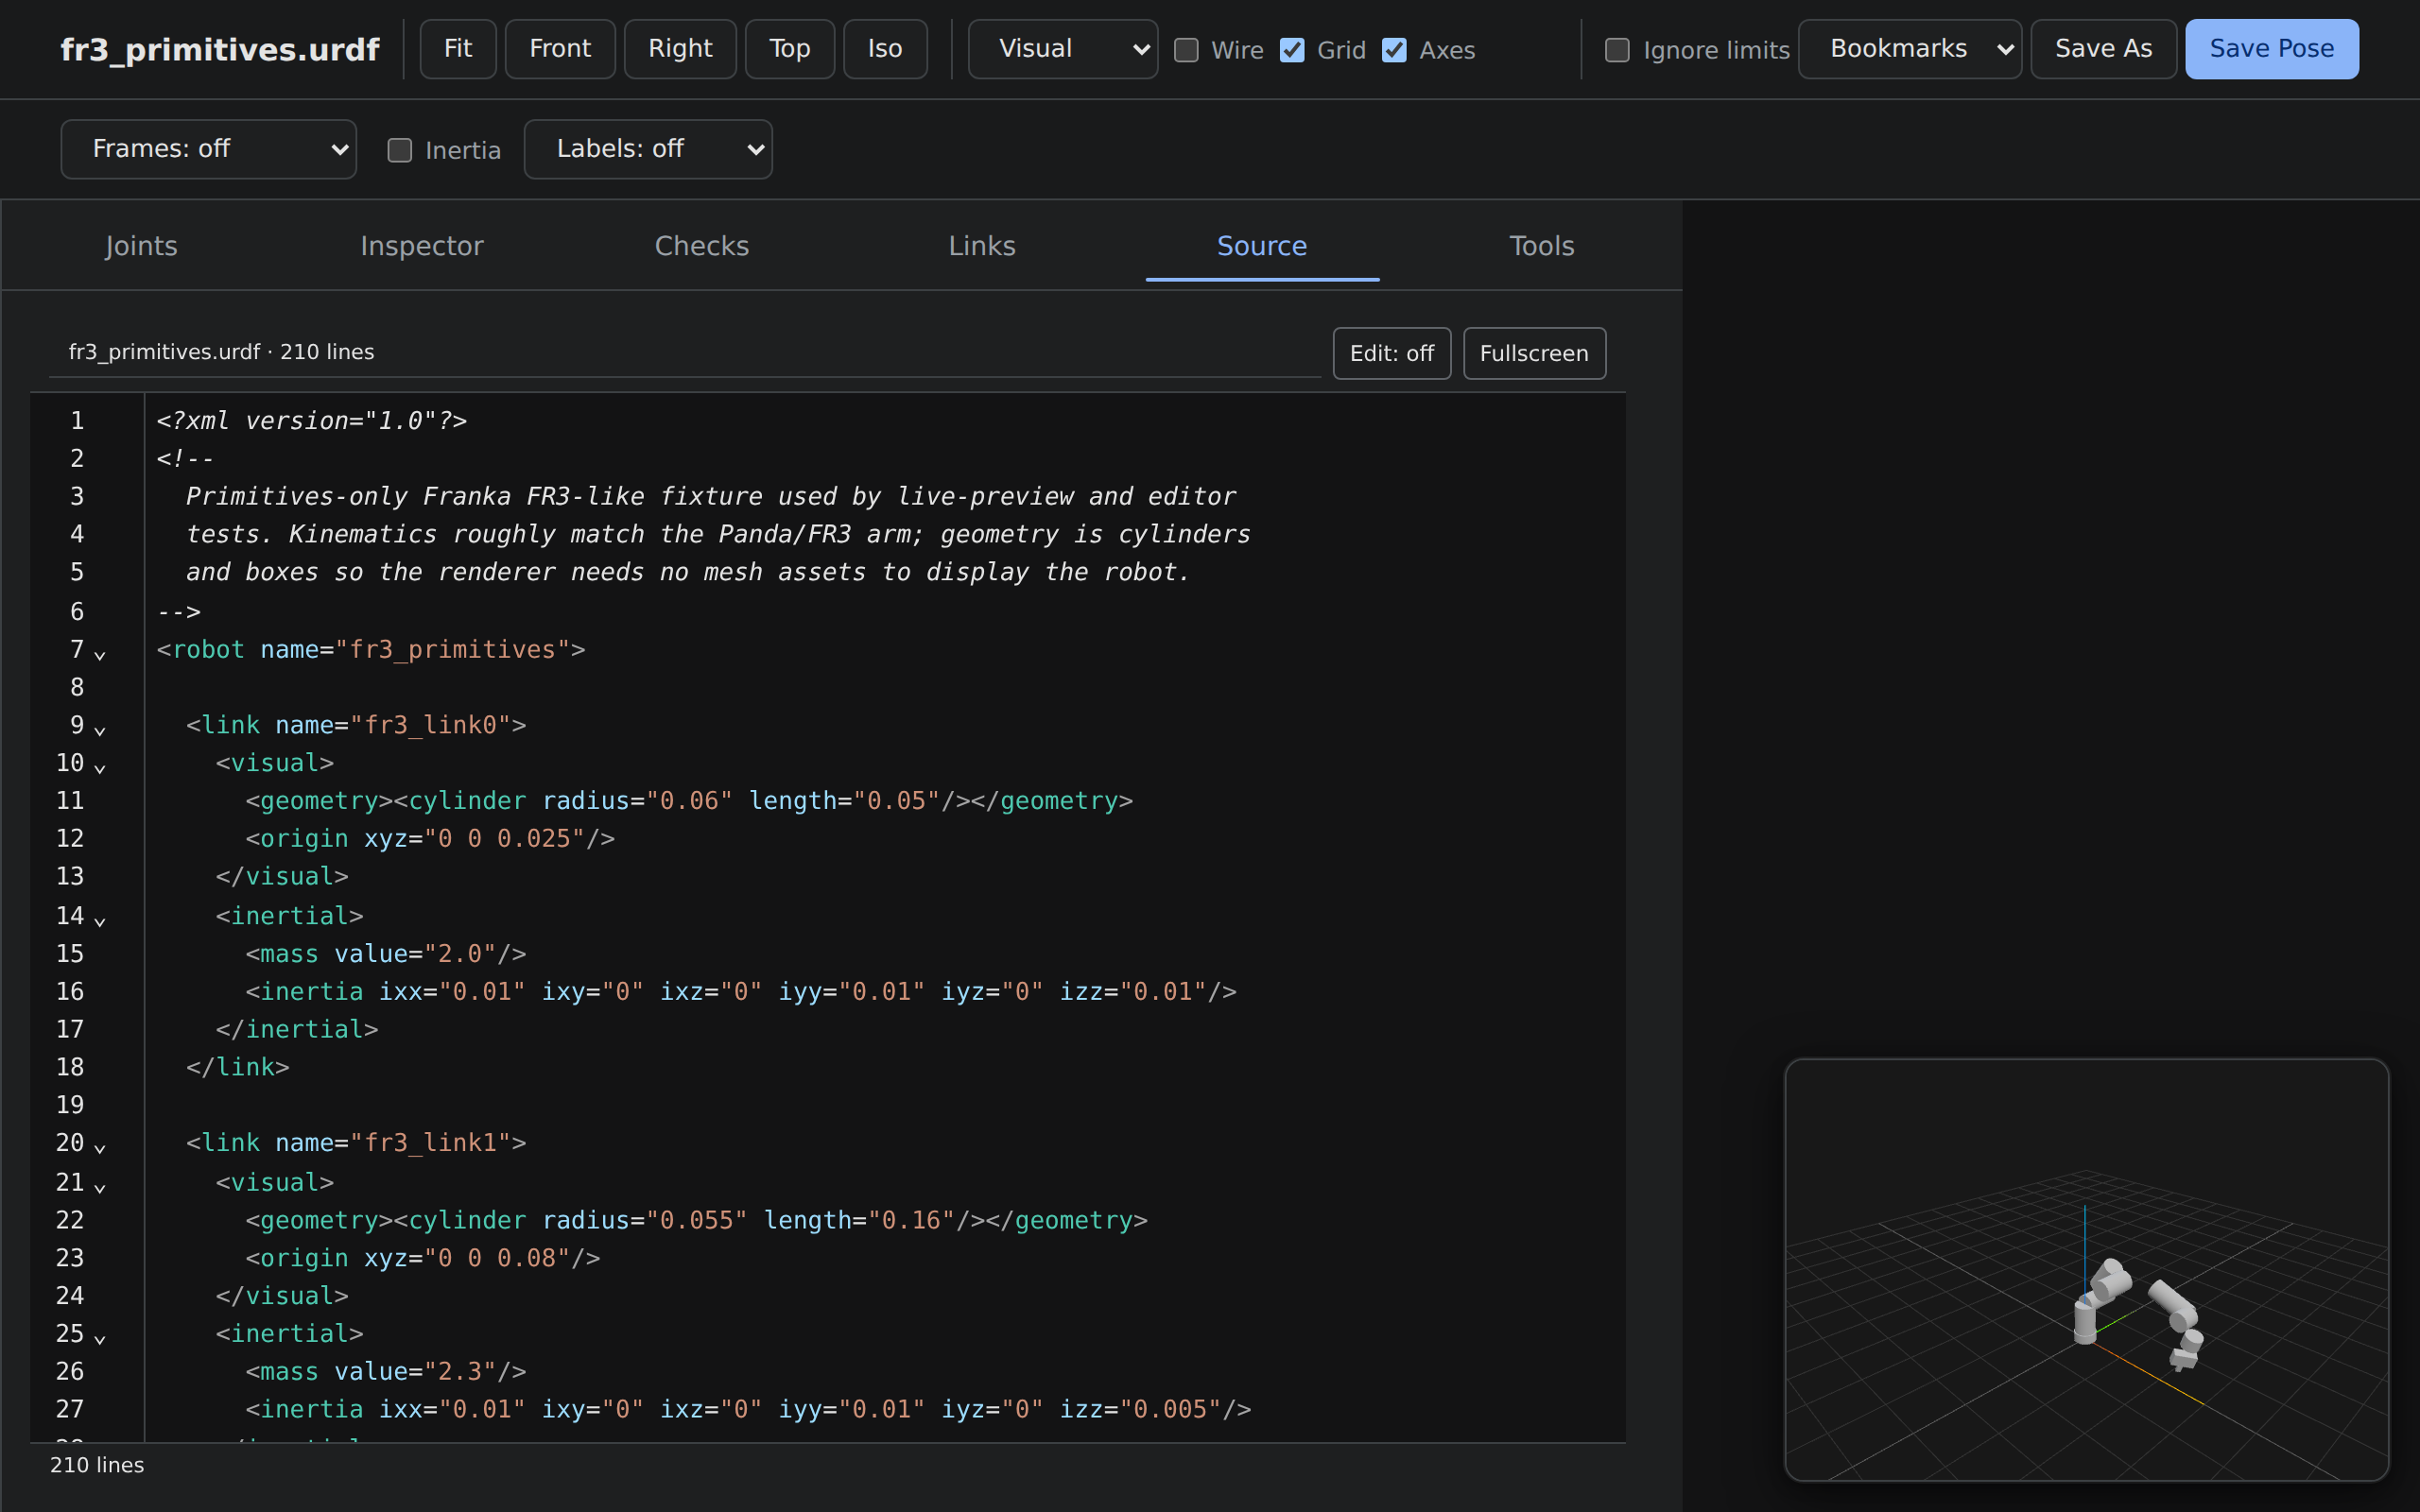
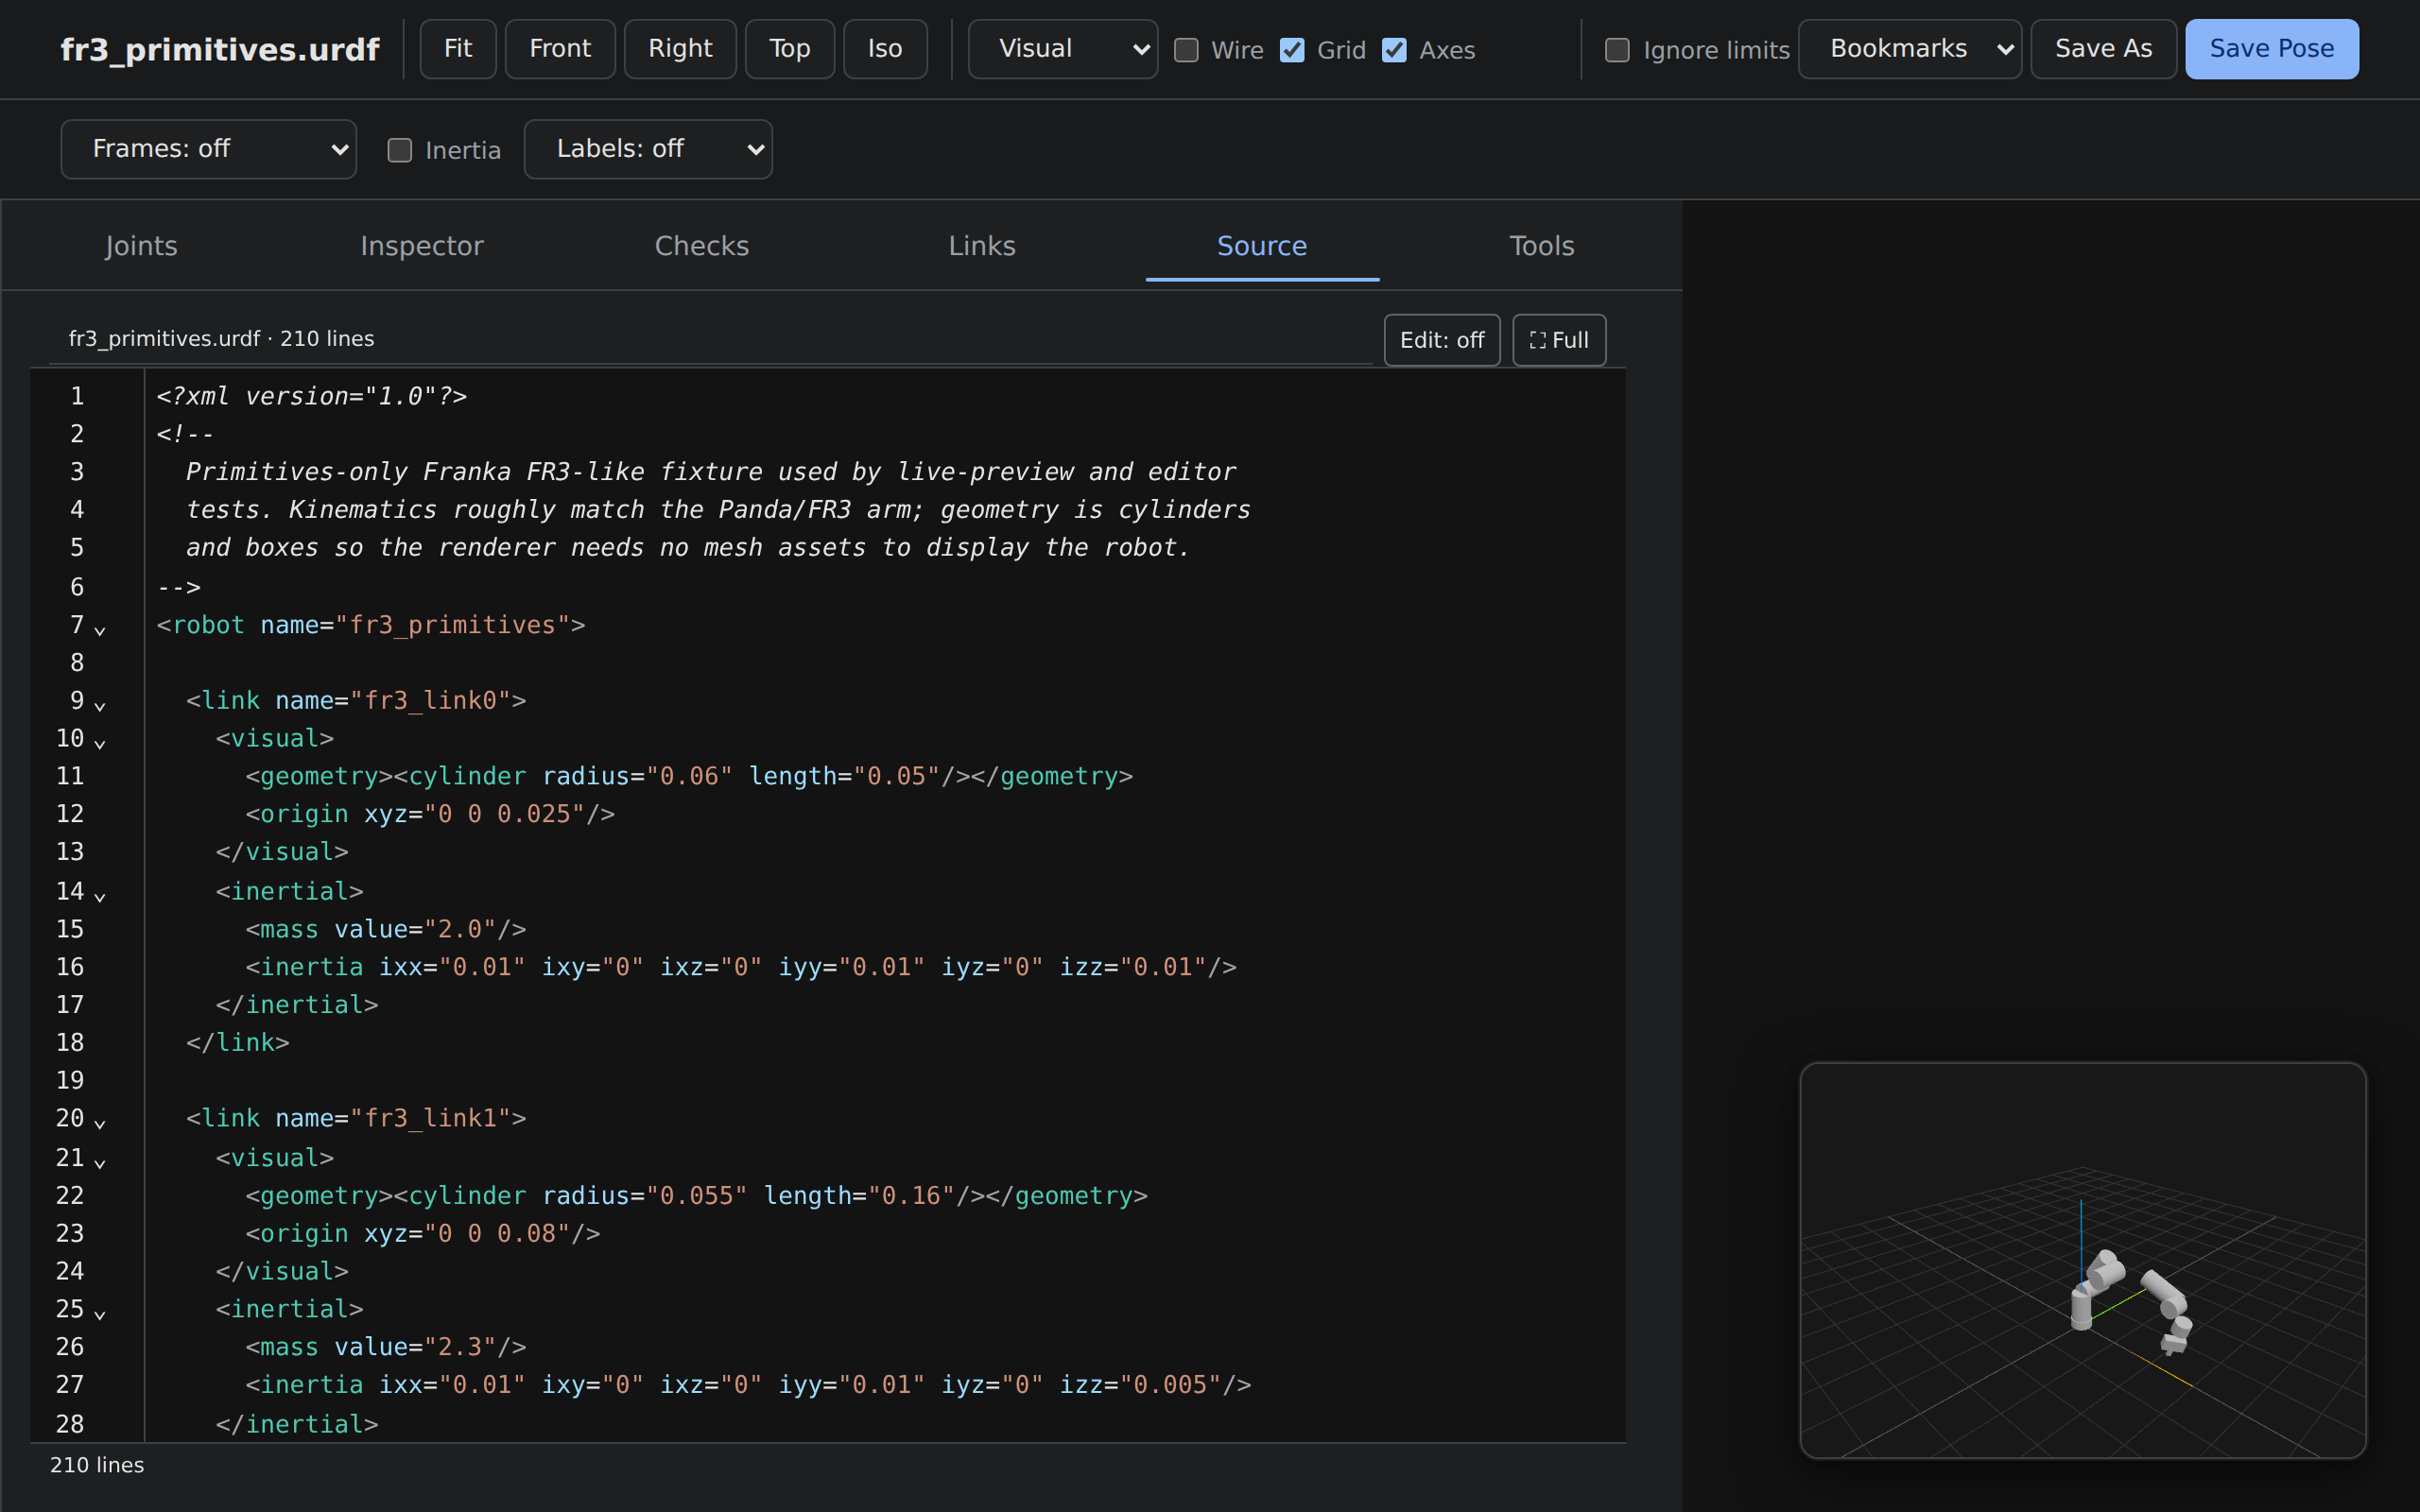
ui: stop "Edit: off" wrapping, push PIP inward, consolidate redundant tests
UI fixes called out from screenshot review:

- Toolbar buttons gained white-space: nowrap + flex: 0 0 auto, so
  "Edit: off" can no longer break to "Edit:" + "off" when the side
  narrows. Toolbar also has min-height: 28px + flex-wrap: nowrap to
  keep the row stable.
- Fullscreen PIP moved from right:16/bottom:16 to right:28/bottom:28
  and downsized from 320x224 to 300x210 — it now sits cleanly inside
  the workspace gutter instead of hugging the screen edge while the
  editor content kept its own padding.
- Fullscreen button label shortened from "Fullscreen" (would have
  wrapped at narrow widths anyway) to "⛶ Full" with full tooltip.

Test consolidation (322 → 318 unit, 51 → 50 e2e):

- layoutFullscreen.test.ts: collapsed three separate "F11 / Ctrl+Shift+F /
  custom event toggles" tests into one parametric loop; merged the two
  trivial set("X") class-assertion tests into the onChange test (which
  already proves both transitions).
- frankaDescription.test.ts: merged the two trivial "fixture file
  present" tests into one.
- lintRules.test.ts: consolidated two near-identical perf tests into a
  parametric loop; merged "no errors" + "no rule fires" on
  franka_primitives into one composite assertion.
- editor.spec.ts: merged the "fullscreen button" and "Ctrl+Shift+F"
  tests — they exercised the same controller via different inputs.

All 318 unit + 50 Playwright tests still pass.

Changed region(s): [[0.0312, 0.2188, 0.6562, 0.9688], [0.8438, 0.7812, 0.9062, 0.9062]]

diff --git a/test/unit/layoutFullscreen.test.ts b/test/unit/layoutFullscreen.test.ts
@@ -29,41 +29,25 @@ test('createLayoutController starts in default mode', () => {
   }
 });
 
-test('set("source-fullscreen") adds the right CSS class', () => {
-  const controller = createLayoutController(getWorkspace());
+test('set() applies the matching CSS class, removes the previous one, and fires onChange only on actual transitions', () => {
+  const workspace = getWorkspace();
+  workspace.classList.remove('layout-source-fullscreen', 'layout-split');
+  const events: string[] = [];
+  const controller = createLayoutController(workspace, mode => events.push(mode));
   try {
     controller.set('source-fullscreen');
     assert.equal(controller.current(), 'source-fullscreen');
-    assert.equal(getWorkspace().classList.contains('layout-source-fullscreen'), true);
-  } finally {
-    controller.dispose();
-  }
-});
+    assert.equal(workspace.classList.contains('layout-source-fullscreen'), true);
 
-test('set("split") adds layout-split class and removes any other layout', () => {
-  const workspace = getWorkspace();
-  workspace.classList.remove('layout-source-fullscreen', 'layout-split');
-  const controller = createLayoutController(workspace);
-  try {
-    controller.set('source-fullscreen');
     controller.set('split');
-    assert.equal(controller.current(), 'split');
     assert.equal(workspace.classList.contains('layout-split'), true);
     assert.equal(workspace.classList.contains('layout-source-fullscreen'), false);
-  } finally {
-    controller.dispose();
-  }
-});
 
-test('onChange fires once per actual change', () => {
-  const events: string[] = [];
-  const controller = createLayoutController(getWorkspace(), mode => events.push(mode));
-  try {
-    controller.set('split');
-    controller.set('split');           // no-op
-    controller.set('source-fullscreen');
+    controller.set('split');           // no-op (no transition)
     controller.set('default');
-    assert.deepEqual(events, ['split', 'source-fullscreen', 'default']);
+    assert.equal(workspace.classList.contains('layout-split'), false);
+
+    assert.deepEqual(events, ['source-fullscreen', 'split', 'default']);
   } finally {
     controller.dispose();
   }
@@ -82,46 +66,38 @@ test('cycle() walks default → split → source-fullscreen → default', () => 
   }
 });
 
-test('F11 key toggles source-fullscreen ↔ default', () => {
-  const workspace = getWorkspace();
-  workspace.classList.remove('layout-source-fullscreen', 'layout-split');
-  const controller = createLayoutController(workspace);
-  try {
-    const event = new dom.window.KeyboardEvent('keydown', { key: 'F11' });
-    dom.window.dispatchEvent(event);
-    assert.equal(controller.current(), 'source-fullscreen');
-    dom.window.dispatchEvent(new dom.window.KeyboardEvent('keydown', { key: 'F11' }));
-    assert.equal(controller.current(), 'default');
-  } finally {
-    controller.dispose();
+// Three independent inputs trigger the same toggle behaviour; consolidate
+// into a parametric loop instead of three near-identical tests.
+const TOGGLE_INPUTS: Array<{ name: string; fire: (workspace: HTMLElement) => void }> = [
+  {
+    name: 'F11 keydown',
+    fire: () => dom.window.dispatchEvent(new dom.window.KeyboardEvent('keydown', { key: 'F11' }))
+  },
+  {
+    name: 'Ctrl+Shift+F keydown',
+    fire: () => dom.window.dispatchEvent(new dom.window.KeyboardEvent('keydown', { key: 'F', ctrlKey: true, shiftKey: true }))
+  },
+  {
+    name: 'custom urdf-studio:request-fullscreen-toggle event',
+    fire: workspace => workspace.dispatchEvent(new dom.window.CustomEvent('urdf-studio:request-fullscreen-toggle', { bubbles: true }))
   }
-});
+];
 
-test('Ctrl+Shift+F toggles source-fullscreen', () => {
-  const workspace = getWorkspace();
-  workspace.classList.remove('layout-source-fullscreen', 'layout-split');
-  const controller = createLayoutController(workspace);
-  try {
-    dom.window.dispatchEvent(new dom.window.KeyboardEvent('keydown', { key: 'F', ctrlKey: true, shiftKey: true }));
-    assert.equal(controller.current(), 'source-fullscreen');
-  } finally {
-    controller.dispose();
-  }
-});
-
-test('custom event urdf-studio:request-fullscreen-toggle toggles layout', () => {
-  const workspace = getWorkspace();
-  workspace.classList.remove('layout-source-fullscreen', 'layout-split');
-  const controller = createLayoutController(workspace);
-  try {
-    workspace.dispatchEvent(new dom.window.CustomEvent('urdf-studio:request-fullscreen-toggle', { bubbles: true }));
-    assert.equal(controller.current(), 'source-fullscreen');
-    workspace.dispatchEvent(new dom.window.CustomEvent('urdf-studio:request-fullscreen-toggle', { bubbles: true }));
-    assert.equal(controller.current(), 'default');
-  } finally {
-    controller.dispose();
-  }
-});
+for (const { name, fire } of TOGGLE_INPUTS) {
+  test(`${name} toggles source-fullscreen ↔ default`, () => {
+    const workspace = getWorkspace();
+    workspace.classList.remove('layout-source-fullscreen', 'layout-split');
+    const controller = createLayoutController(workspace);
+    try {
+      fire(workspace);
+      assert.equal(controller.current(), 'source-fullscreen');
+      fire(workspace);
+      assert.equal(controller.current(), 'default');
+    } finally {
+      controller.dispose();
+    }
+  });
+}
 
 test('dispose removes keyboard listener so further F11 events have no effect', () => {
   const workspace = getWorkspace();

diff --git a/test/unit/lintRules.test.ts b/test/unit/lintRules.test.ts
@@ -32,24 +32,17 @@ function lint(urdf: string, sourcePath = 'test.urdf', enabled?: Set<string>) {
 // franka_primitives.urdf — the "healthy" fixture
 // =====================================================================
 
-test('franka_primitives has no errors and a high health score', () => {
-  const urdf = load('franka_primitives.urdf');
-  const report = lint(urdf);
-  // Mesh / package rules can't fire because the fixture uses primitives.
+test('franka_primitives is clean: zero errors, high health score, and no structural/physics rule fires', () => {
+  const report = lint(load('franka_primitives.urdf'));
   const errors = report.diagnostics.filter(d => d.severity === 'error');
   assert.equal(errors.length, 0, `unexpected errors: ${JSON.stringify(errors, null, 2)}`);
   assert.ok(report.healthScore >= 95, `health score too low: ${report.healthScore}`);
-});
-
-test('franka_primitives passes every default-enabled rule', () => {
-  const urdf = load('franka_primitives.urdf');
-  const report = lint(urdf);
-  const triggeredCodes = Object.keys(report.byRule);
-  // The fixture intentionally avoids triggering structural / physics rules.
-  // Style rules (S-005 in particular) are off by default and won't fire.
-  const forbiddenForFranka = ['R-001', 'R-002', 'R-003', 'R-004', 'R-005', 'P-001', 'P-002', 'P-003', 'P-004', 'P-005', 'P-006'];
-  for (const code of forbiddenForFranka) {
-    assert.ok(!triggeredCodes.includes(code), `${code} unexpectedly fired on franka_primitives: ${JSON.stringify(report.byRule[code])}`);
+  const triggered = Object.keys(report.byRule);
+  // The fixture intentionally avoids triggering structural / physics
+  // rules; only A-* mesh/package rules can fire on a mesh-free fixture
+  // (and they don't, because there are no meshes).
+  for (const code of ['R-001', 'R-002', 'R-003', 'R-004', 'R-005', 'P-001', 'P-002', 'P-003', 'P-004', 'P-005', 'P-006']) {
+    assert.ok(!triggered.includes(code), `${code} unexpectedly fired: ${JSON.stringify(report.byRule[code])}`);
   }
 });
 
@@ -262,24 +255,20 @@ test('explicit enabled set restricts rules', () => {
 });
 
 // =====================================================================
-// Performance budget
+// Performance budget — analyzeUrdf + runAllRules on both fixtures
 // =====================================================================
 
-test('runAllRules completes in <50ms on franka_broken.urdf', () => {
-  const urdf = load('franka_broken.urdf');
-  // Warm-up the JIT so the cold-start cost doesn't pollute the median.
-  for (let i = 0; i < 5; i++) lint(urdf);
-  const t0 = performance.now();
-  for (let i = 0; i < 20; i++) lint(urdf);
-  const elapsed = (performance.now() - t0) / 20;
-  assert.ok(elapsed < 50, `lint took ${elapsed.toFixed(2)}ms/run (budget 50ms)`);
-});
-
-test('runAllRules completes in <100ms on franka_primitives.urdf (200 lines)', () => {
-  const urdf = load('franka_primitives.urdf');
-  for (let i = 0; i < 5; i++) lint(urdf);
-  const t0 = performance.now();
-  for (let i = 0; i < 20; i++) lint(urdf);
-  const elapsed = (performance.now() - t0) / 20;
-  assert.ok(elapsed < 100, `lint took ${elapsed.toFixed(2)}ms/run (budget 100ms)`);
-});
+for (const { fixture, budgetMs } of [
+  { fixture: 'franka_broken.urdf', budgetMs: 50 },
+  { fixture: 'franka_primitives.urdf', budgetMs: 100 }
+]) {
+  test(`runAllRules completes in <${budgetMs}ms on ${fixture}`, () => {
+    const urdf = load(fixture);
+    // Warm-up the JIT so the cold-start cost doesn't pollute the median.
+    for (let i = 0; i < 5; i++) lint(urdf);
+    const t0 = performance.now();
+    for (let i = 0; i < 20; i++) lint(urdf);
+    const elapsed = (performance.now() - t0) / 20;
+    assert.ok(elapsed < budgetMs, `lint took ${elapsed.toFixed(2)}ms/run (budget ${budgetMs}ms)`);
+  });
+}

diff --git a/test/renderer/editor.spec.ts b/test/renderer/editor.spec.ts
@@ -59,7 +59,7 @@ test('editor: mounts CodeMirror, applies URDF highlights, and responds to keyboa
   }
 });
 
-test('editor: fullscreen toggle adds the layout-source-fullscreen class', async ({ page }) => {
+test('editor: fullscreen toggle works via toolbar button AND Ctrl+Shift+F', async ({ page }) => {
   const server = await startStaticServer(path.resolve(__dirname, '..', '..'));
   try {
     await page.goto(`${server.url}/test/renderer/harness.html`);
@@ -76,18 +76,23 @@ test('editor: fullscreen toggle adds the layout-source-fullscreen class', async 
     await page.locator('[data-tab="source"]').click();
     await expect(page.locator('#panel-source .cm-editor')).toBeVisible({ timeout: 5000 });
 
+    // Path 1 — toolbar button enters fullscreen.
     await page.locator('#panel-source .source-fullscreen-toggle').click();
     await expect(page.locator('#workspace.layout-source-fullscreen')).toBeVisible();
 
-    // Toggle off again. In fullscreen mode the PIP viewport overlay can
-    // sit over the toolbar button depending on stacking; dispatch the
-    // custom event directly so the test exercises the layout-controller
-    // path, not Playwright's click hit-testing.
+    // Exit via custom event (Playwright's click hit-testing can hit the PIP
+    // in fullscreen mode; dispatching the event directly exercises the
+    // controller's exit path).
     await page.evaluate(() => {
-      const panel = document.querySelector('#panel-source');
-      panel!.dispatchEvent(new CustomEvent('urdf-studio:request-fullscreen-toggle', { bubbles: true }));
+      document.querySelector('#panel-source')!.dispatchEvent(
+        new CustomEvent('urdf-studio:request-fullscreen-toggle', { bubbles: true })
+      );
     });
     await expect(page.locator('#workspace.layout-source-fullscreen')).toHaveCount(0);
+
+    // Path 2 — Ctrl+Shift+F keybinding re-enters fullscreen.
+    await page.keyboard.press('Control+Shift+F');
+    await expect(page.locator('#workspace.layout-source-fullscreen')).toBeVisible();
   } finally {
     await server.close();
   }
@@ -181,32 +186,6 @@ test('editor: health score + grouped rules render in Checks panel for franka_pri
     const score = await page.locator('#panel-checks .health-score').first().textContent();
     const n = Number(score ?? '0');
     expect(n).toBeGreaterThanOrEqual(90);
-  } finally {
-    await server.close();
-  }
-});
-
-test('editor: F11 key toggles source fullscreen layout', async ({ page }) => {
-  const server = await startStaticServer(path.resolve(__dirname, '..', '..'));
-  try {
-    await page.goto(`${server.url}/test/renderer/harness.html`);
-    await page.waitForFunction(
-      () => (window as any).__messages?.some((m: any) => m.type === 'ready'),
-      undefined,
-      { timeout: 30_000 }
-    );
-    const urdf = readFileSync(FRANKA_FIXTURE, 'utf-8');
-    await page.evaluate(payload => {
-      window.dispatchEvent(new MessageEvent('message', { data: payload }));
-    }, buildLoadRobotMessage(urdf));
-
-    await page.locator('[data-tab="source"]').click();
-    await expect(page.locator('#panel-source .cm-editor')).toBeVisible({ timeout: 5000 });
-
-    // Some browsers reserve F11 for native fullscreen; using Ctrl+Shift+F
-    // as the documented alternate keybinding is more reliable here.
-    await page.keyboard.press('Control+Shift+F');
-    await expect(page.locator('#workspace.layout-source-fullscreen')).toBeVisible();
   } finally {
     await server.close();
   }

diff --git a/src/editor/editor.css b/src/editor/editor.css
@@ -85,16 +85,20 @@
 
 .workspace.layout-source-fullscreen .viewport-wrap {
   position: absolute;
-  right: 16px;
-  bottom: 16px;
-  width: 320px;
-  height: 224px;
+  /* The PIP must sit *inside* the workspace's visual gutter — match the
+     source panel's own internal padding so the overlay shares the same
+     breathing room top/bottom/sides instead of hugging the screen edge
+     while the editor content keeps its own padding. */
+  right: 28px;
+  bottom: 28px;
+  width: 300px;
+  height: 210px;
   z-index: 5;
   border: 1px solid var(--vscode-panel-border);
   border-radius: 10px;
   overflow: hidden;
   background: var(--vscode-editor-background);
-  box-shadow: 0 8px 28px rgba(0, 0, 0, 0.55), 0 2px 8px rgba(0, 0, 0, 0.35);
+  box-shadow: 0 10px 32px rgba(0, 0, 0, 0.55), 0 2px 8px rgba(0, 0, 0, 0.35);
   /* Subtle outline so the PIP reads as a distinct panel against the
      editor's dark canvas. */
   outline: 1px solid color-mix(in srgb, var(--vscode-foreground) 8%, transparent);
@@ -133,6 +137,11 @@
   font-size: 11.5px;
   align-items: center;
   background: color-mix(in srgb, var(--vscode-sideBar-background) 90%, transparent);
+  /* Don't let the toolbar itself collapse vertically when the file
+     name pushes things; the buttons are short enough that one row
+     always fits the side panel min-width. */
+  flex-wrap: nowrap;
+  min-height: 28px;
 }
 
 #panel-source .source-toolbar .source-meta {
@@ -149,6 +158,11 @@
   padding: 3px 8px;
   font-size: 11.5px;
   border-radius: 4px;
+  /* Toolbar buttons must stay single-line; "Edit: off" was wrapping to
+     "Edit:" + "off" when the side panel narrowed. */
+  white-space: nowrap;
+  flex: 0 0 auto;
+  line-height: 1.4;
 }
 
 #panel-source .source-toolbar button.active {

diff --git a/test/unit/frankaDescription.test.ts b/test/unit/frankaDescription.test.ts
@@ -21,11 +21,8 @@ if (!existsSync(FRANKA_ROOT)) {
     assert.ok(true);
   });
 } else {
-  test('franka_description: package.xml is present', () => {
+  test('franka_description: fixture is complete (package.xml + fr3 xacro)', () => {
     assert.ok(existsSync(path.join(FRANKA_ROOT, 'package.xml')));
-  });
-
-  test('franka_description: fr3.urdf.xacro file is present', () => {
     assert.ok(existsSync(path.join(FRANKA_ROOT, 'robots', 'fr3', 'fr3.urdf.xacro')));
   });
 

diff --git a/src/renderer/logic/sourcePane.ts b/src/renderer/logic/sourcePane.ts
@@ -82,7 +82,8 @@ export function mountSourcePane(host: HTMLElement, input: SourcePaneInput): Sour
   const fullscreenButton = document.createElement('button');
   fullscreenButton.type = 'button';
   fullscreenButton.className = 'source-fullscreen-toggle';
-  fullscreenButton.textContent = 'Fullscreen';
+  // Unicode "expand" glyph; falls back to readable text via title.
+  fullscreenButton.textContent = '⛶ Full';
   fullscreenButton.title = 'Toggle source fullscreen (F11)';
   toolbar.appendChild(fullscreenButton);
 